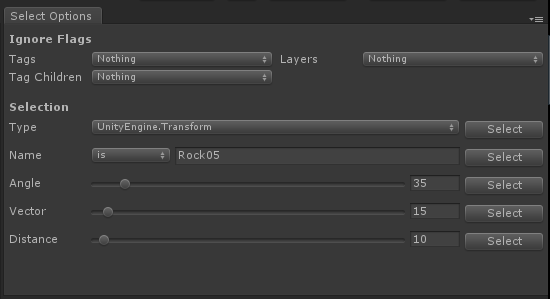
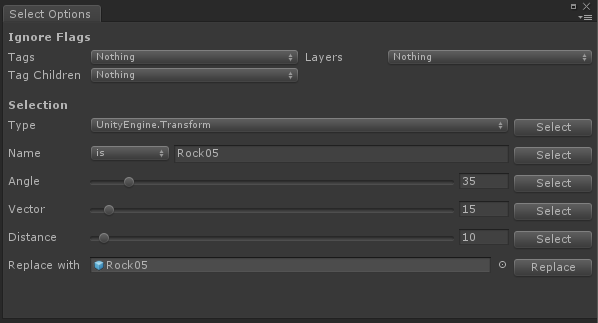
updated README and screenshot

diff --git a/README.md b/README.md
@@ -32,6 +32,9 @@ Only one at a time can be selected.
 - **Vector** - Maximum offset of Direction from the direction selected GameObject is facing
 - **Distance** - Good ol' radial distance from object
   
+### Replace
+Replaces the selected GameObjects with a prefab or another object in scene.
+
 
 ## Install
 1. Download the repository.
